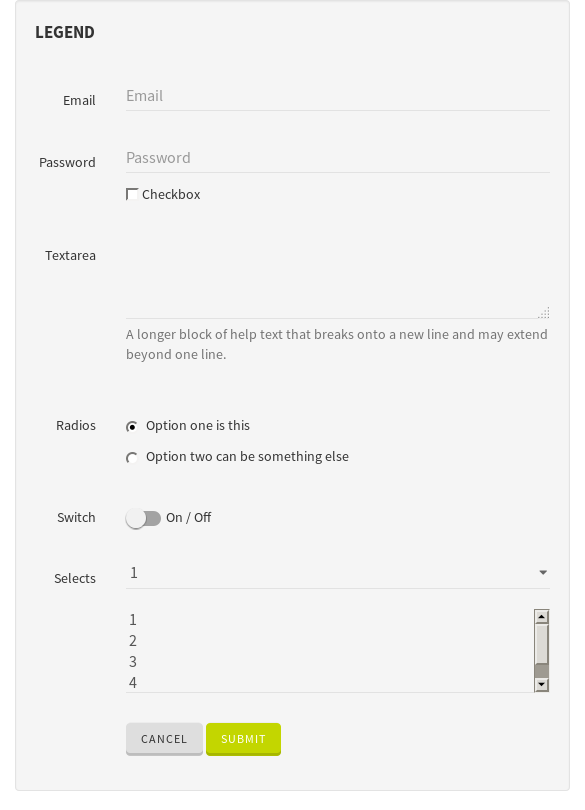
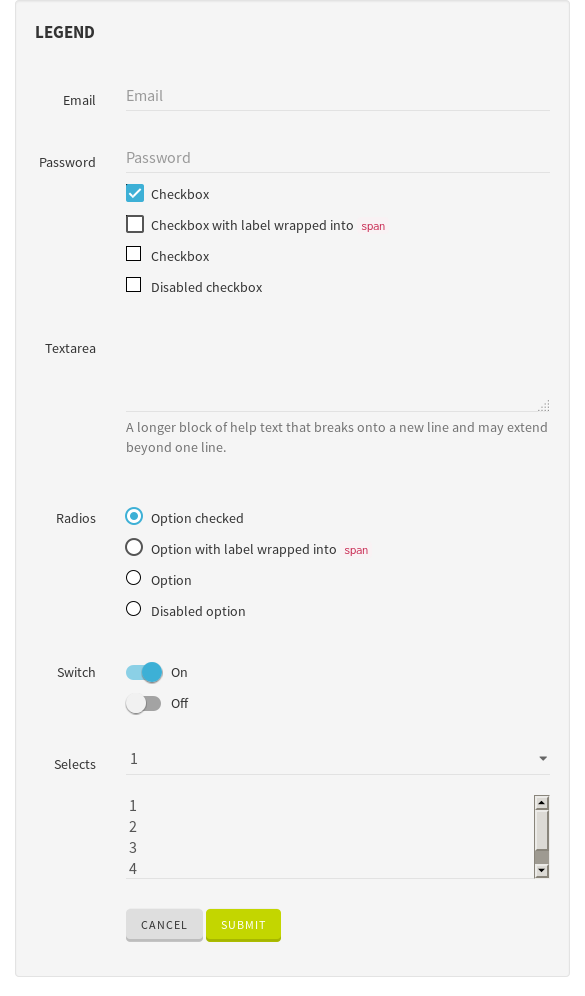
feat(theme): checkbox and radio styles on adjacent sibling element (#270)

diff --git a/packages/theme/src/theme/_forms.scss b/packages/theme/src/theme/_forms.scss
@@ -99,69 +99,72 @@ form {
 	.checkbox,
 	.checkbox-inline {
 		label {
+			position: relative;
 			padding-left: 25px;
 		}
 
 		input[type='radio'],
 		input[type='checkbox'] {
-			margin-left: -25px;
+			position: absolute;
+			left: 0;
+			margin: 0;
 		}
 	}
 
 	input[type='radio'],
 	.radio input[type='radio'],
 	.radio-inline input[type='radio'] {
-		position: relative;
-		margin-top: 6px;
-		margin-right: 4px;
-		vertical-align: top;
-		border: none;
-		background-color: transparent;
-		appearance: none;
-		cursor: pointer;
 
 		&:focus {
 			outline: none;
 		}
 
 		&:before,
-		&:after {
+		&:after,
+		+ *:before,
+		+ *:after {
 			@include transition(240ms);
+			position: absolute;
+			top: -1px; /* IE 11 */
+			left: -1px; /* IE 11 */
 			content: '';
-			display: block;
 			width: 18px;
 			height: 18px;
 			border-radius: 50%;
 		}
 
-		&:before {
+		&:before,
+		+ *:before {
 			@include scale(0);
-			position: absolute;
-			left: 0;
-			top: -3px;
 			background-color: $brand-primary;
+			z-index: 1;
 		}
 
-		&:after {
-			position: relative;
-			top: -3px;
+		&:after,
+		+ *:after {
 			border: 2px solid $gray;
+			background-color: $white;
 		}
 
-		&:checked:before {
-			@include scale(0.5);
+		&:checked:before,
+		&:checked + *:before {
+			@include scale(0.45);
 		}
 
-		&:disabled:checked:before {
+		&:disabled:checked:before,
+		&:disabled:checked + *:before {
 			background-color: $gray-light;
 		}
 
-		&:checked:after {
+		&:checked:after,
+		&:checked + *:after {
 			border-color: $brand-primary;
 		}
 
 		&:disabled:after,
-		&:disabled:checked:after {
+		&:disabled:checked:after,
+		&:disabled + *:after,
+		&:disabled:checked + *:after {
 			border-color: $gray-light;
 		}
 	}
@@ -169,56 +172,65 @@ form {
 	input[type='checkbox'],
 	.checkbox input[type='checkbox'],
 	.checkbox-inline input[type='checkbox'] {
-		position: relative;
-		border: none;
-		margin-bottom: -4px;
-		appearance: none;
-		cursor: pointer;
+
+		&:before,
+		&:after,
+		+ *:before,
+		+ *:after {
+			position: absolute;
+			top: 0;
+			left: 0;
+		}
+
+		&:after,
+		+ *:after {
+			@include transition(240ms);
+			content: '';
+			display: inline-block;
+			width: 18px;
+			height: 18px;
+			border: 2px solid $gray;
+			border-radius: 2px;
+			background-color: $white;
+		}
+
+		&:checked:before,
+		&:checked + *:before {
+			@include rotate(45deg);
+			content: '';
+			top: 2px;
+			left: 6px;
+			display: table;
+			width: 6px;
+			height: 12px;
+			border: 2px solid $white;
+			border-top-width: 0;
+			border-left-width: 0;
+			z-index: 1;
+		}
 
 		&:focus {
 			outline: none;
 		}
 
-		&:focus:after {
+		&:focus:after,
+		&:focus + *:after {
 			border-color: $brand-primary;
 		}
 
-		&:after {
-			@include transition(240ms);
-			content: '';
-			display: block;
-			width: 18px;
-			height: 18px;
-			margin-top: -2px;
-			margin-right: 5px;
-			border: 2px solid $gray;
-			border-radius: 2px;
-		}
-
-		&:checked:before {
-			@include rotate(45deg);
-			content: '';
-			position: absolute;
-			top: 0;
-			left: 6px;
-			display: table;
-			width: 6px;
-			height: 12px;
-			border: 2px solid #FFF;
-			border-top-width: 0;
-			border-left-width: 0;
-		}
-
-		&:checked:after {
+		&:checked:after,
+		&:checked + *:after {
 			background-color: $brand-primary;
 			border-color: $brand-primary;
 		}
 
-		&:disabled:after {
+		&:disabled:after,
+		&:disabled + *:after {
 			border-color: $gray-light;
 		}
 
-		&:disabled:checked:after {
+		&:disabled:checked:after,
+		&:disabled:checked + *:after {
 			background-color: $gray-light;
 			border-color: transparent;
 		}
@@ -333,45 +345,54 @@ form {
 }
 
 .switch {
-	input[type='checkbox'] {
-		position: absolute !important;
+	input[type='checkbox'],
+	.checkbox input[type='checkbox'],
+	&.checkbox input[type='checkbox'] {
+		position: absolute;
 		clip: rect(1px, 1px, 1px, 1px);
-		padding: 0 !important;
-		border: none !important;
-		height: 1px !important;
-		width: 1px !important;
+		padding: 0;
+		border: none;
+		height: 1px;
+		width: 1px;
 		overflow: hidden;
 
 		+ * {
-			position: relative;
-			padding-left: 15px;
+			padding-left: 20px;
 		}
 
 		+ *:before,
-		+ *:after {
-			display: inline-block;
+		+ *:after,
+		&:checked + *:before,
+		&:checked + *:after {
 			position: absolute;
 			content: '';
 			top: 0;
-			left: -25px;
+			left: 0;
 			transition: background 0.2s ease, transform 0.2s ease;
-		}
-
-		+ *:before {
-			height: 15px;
-			width: 35px;
-			margin-top: 3px;
-			background: tint($dove-gray, 40);
 			border-radius: 100px;
-			-webkit-tap-highlight-color: rgba(0, 0, 0, 0);
+			border-color: transparent;
 		}
 
-		+ *:after {
+		+ *:before,
+		&:checked + *:before {
+			width: 35px;
+			height: 15px;
+			margin-top: 3px;
+			margin-left: 0;
+			background: tint($dove-gray, 40);
+			border: none;
+			transform: rotate(0deg);
+			-webkit-tap-highlight-color: rgba(0, 0, 0, 0);
+			box-sizing: content-box;
+		}
+
+		+ *:after,
+		&:checked + *:after {
 			width: 20px;
 			height: 20px;
-			border-radius: 100px;
 			background: #F1F1F1;
 			box-shadow: 0 1px 1px 0 $dove-gray;
+			z-index: 1;
 		}
 
 		&:checked {

diff --git a/packages/theme/example/index.html b/packages/theme/example/index.html
@@ -760,7 +760,22 @@
                       <input type="password" class="form-control" id="inputPassword" placeholder="Password">
                       <div class="checkbox">
                         <label>
+                          <input type="checkbox" checked=""><span>Checkbox</span>
+                        </label>
+                      </div>
+                      <div class="checkbox">
+                        <label>
+                          <input type="checkbox"><span>Checkbox with label wrapped into <code>span</code></span>
+                        </label>
+                      </div>
+                      <div class="checkbox">
+                        <label>
                           <input type="checkbox"> Checkbox
+                          </label>
+                      </div>
+                      <div class="checkbox disabled">
+                        <label>
+                          <input type="checkbox" disabled=""> Disabled checkbox
                         </label>
                       </div>
                     </div>
@@ -778,13 +793,25 @@
                       <div class="radio">
                         <label>
                           <input type="radio" name="optionsRadios" id="optionsRadios1" value="option1" checked="">
-                          Option one is this
+                          <span>Option checked</span>
                         </label>
                       </div>
                       <div class="radio">
                         <label>
                           <input type="radio" name="optionsRadios" id="optionsRadios2" value="option2">
-                          Option two can be something else
+                          <span>Option with label wrapped into <code>span</code></span>
+                        </label>
+                      </div>
+                      <div class="radio">
+                        <label>
+                          <input type="radio" name="optionsRadios" id="optionsRadios3" value="option3">
+                          Option
+                        </label>
+                      </div>
+                      <div class="radio disabled">
+                        <label>
+                          <input type="radio" name="optionsRadios" id="optionsRadios4" value="option4" disabled="">
+                          Disabled option
                         </label>
                       </div>
                     </div>
@@ -794,8 +821,14 @@
                     <div class="col-lg-10">
                       <div class="checkbox">
                         <label>
+                          <input type="checkbox" name="inputSwitch" checked="">
+                          <span>On</span>
+                        </label>
+                      </div>
+                      <div class="checkbox">
+                        <label>
                           <input type="checkbox" name="inputSwitch">
-                          <span>On / Off</span>
+                          <span>Off</span>
                         </label>
                       </div>
                     </div>
